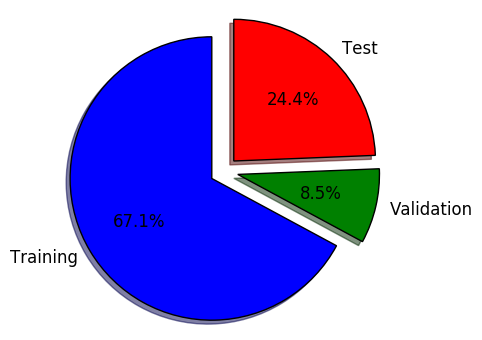
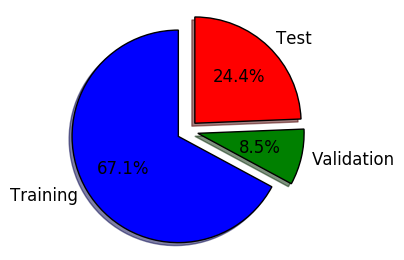
added plot script and added plots

Changed region(s): [[0.0, 0.0308, 0.9802, 0.9846], [0.5347, 0.2462, 0.6832, 0.3385], [0.2376, 0.6154, 0.3861, 0.6769]]

diff --git a/make_plots_and_tables.py b/make_plots_and_tables.py
@@ -1,0 +1,146 @@
+import pickle
+import numpy as np
+import csv
+import tensorflow as tf
+from tensorflow.contrib.layers import flatten
+from sklearn.utils import shuffle
+from sklearn import preprocessing
+import cv2
+import pandas as pd
+import random
+import matplotlib.pyplot as plt
+from matplotlib import colors, cm
+from keras.preprocessing.image import ImageDataGenerator
+from tabulate import tabulate
+
+training_file   = "../train.p"
+validation_file = "../valid.p"
+testing_file    = "../test.p" 
+labels_file     = "signnames.csv"
+
+colorspace = "RGB"  # ["RGB", "YUV", "LAB", "BW"]
+show_signs = False
+
+
+def normalize_for_imshow(image):
+    # uint8: leave in range [0-255]
+    if image.dtype == np.dtype('uint8'):
+        return image
+    else: # float32: scale value to range [0, 1]
+        if np.min(image) < 0:
+            return (image + 1.0) / 2.0
+        else:
+            return (image - image.mean()) / image.std() 
+        
+
+def visualize_dataset(data, indexes, imgs_per_class=10, classes=43):
+    #norm = colors.LogNorm(X_mean + 0.5 * X_std, 1.0, clip='True')
+    #norm = colors.LogNorm(vmin=-1.0, vmax=1.0)
+    #norm = colors.LogNorm(image.mean() + 0.5 * image.std(), image.max(), clip='True')
+    print("min val: %f, max val: %f" % (np.min(data), np.max(data)))
+    print("mean: %f, std: %f" %(data.mean(), data.std()))
+    data_conv = np.copy(data)
+
+    imshow_cmap = None
+    if data.shape[-1] == 1:  # or colorspace == "BW"
+        imshow_cmap = "gray"
+
+    if colorspace == "YUV":
+        for i, img in enumerate(data):
+            data_conv[i] = np.reshape(cv2.cvtColor(img, cv2.COLOR_YUV2RGB), data.shape[1:])
+    elif colorspace == "LAB":
+        for i, img in enumerate(data):
+            data_conv[i] = np.reshape(cv2.cvtColor(img, cv2.COLOR_Lab2RGB), data.shape[1:])
+
+    fig, axarray = plt.subplots(classes, imgs_per_class, sharex=True, sharey=True, figsize=(8,4))
+    for sign_class in range(classes):
+        print("Showing example images from class %d: %s" % (sign_class, labels[sign_class]))
+        axarray[sign_class, 0].set_title(labels[sign_class], fontdict={'fontsize': 14})
+        rand_items = random.sample(list(indexes[sign_class][0]), imgs_per_class)
+        for count, item in enumerate(rand_items):
+            image = data_conv[item].squeeze()
+            axarray[sign_class, count].set_axis_off()
+            axarray[sign_class, count].imshow(normalize_for_imshow(image), cmap=imshow_cmap)
+
+    return fig
+
+
+if __name__ == '__main__':
+
+    with open(training_file, mode='rb') as f:
+        train = pickle.load(f)
+    with open(validation_file, mode='rb') as f:
+        valid = pickle.load(f)
+    with open(testing_file, mode='rb') as f:
+        test = pickle.load(f)
+
+    X_train, y_train = train['features'], train['labels']
+    X_valid, y_valid = valid['features'], valid['labels']
+    X_test,  y_test  = test['features'],  test['labels']
+
+    # check if we have equal amount of samples in the feature and label spaces
+    assert(len(X_train) == len(y_train))
+    assert(len(X_valid) == len(y_valid))
+    assert(len(X_test) == len(y_test))
+
+    n_train       = X_train.shape[0]
+    n_validation  = X_valid.shape[0]
+    n_test        = X_test.shape[0]
+    image_shape   = X_train.shape[1:]
+    n_classes     = np.unique(y_train).size
+    n_total       = n_train + n_validation + n_test
+
+    # Read in label descriptions
+    labels = []
+    with open(labels_file, 'r') as csvfile:
+        spamreader = csv.reader(csvfile, delimiter=',')
+        for row in spamreader:
+            if row[0].isdecimal():
+                labels.append(row[1])
+
+    # Check how many traffic sign example we have in each class within the training dataset
+    class_indexes_train = []
+    class_indexes_valid = []
+    class_indexes_test  = []
+    for i in range(n_classes):
+        class_indexes_train.append(np.where(y_train==i))
+        class_indexes_valid.append(np.where(y_valid==i))
+        class_indexes_test.append(np.where(y_test==i))
+
+    df = pd.DataFrame({
+        'Traffic sign description': labels,
+        'Training'   : [len(class_indexes_train[i][0]) for i in range(n_classes)],
+        'Validation' : [len(class_indexes_valid[i][0]) for i in range(n_classes)],
+        'Test'       : [len(class_indexes_test[i][0])  for i in range(n_classes)]
+    })
+
+    pd.options.display.width = 100
+    pd.options.display.max_colwidth = 90
+    df = df.reindex(columns=['Traffic sign description', 'Training', 'Validation', 'Test'])
+    print("Statistics Table: ")
+    print(tabulate(df, headers="keys", tablefmt='pipe'))
+
+    print("|   Dataset           |   # Samples  |   % of total amount of samples |")
+    print("|--------------------:|-------------:|-------------------------------:|")
+    print("| %20s |  %d  | %.2f%% |" % ("Training dataset", n_train, 100*n_train/n_total))
+    print("| %20s |  %d  | %.2f%% |" % ("Validation dataset", n_validation, 100*n_validation/n_total))
+    print("| %20s |  %d  | %.2f%% |" % ("Test dataset", n_test, 100*n_test/n_total))
+    print("| %20s |  %d  |        |" % ("Total", n_total))
+
+
+    # Pie chart, where the slices will be ordered and plotted counter-clockwise:
+    plotlabels = 'Training', 'Validation', 'Test'
+    sizes = [100*n_train/n_total, 100*n_validation/n_total, 100*n_test/n_total]
+    explode = (0.1, 0.1, 0.1)
+    fig1, ax1 = plt.subplots(figsize=(3,3))
+    ax1.pie(sizes, explode=explode, labels=plotlabels, autopct='%1.1f%%', shadow=True, startangle=90)
+    ax1.axis('equal')  # Equal aspect ratio ensures that pie is drawn as a circle.
+    fig1.savefig('./examples/dataset_distribution_chart.png', bbox_inches='tight')
+    plt.show()  
+    plt.close()
+
+
+    fig2 = visualize_dataset(X_train, class_indexes_train, imgs_per_class=10, classes=3)
+    fig2.savefig('./examples/dataset_example.png', bbox_inches='tight')
+    plt.show()  
+    plt.close()
